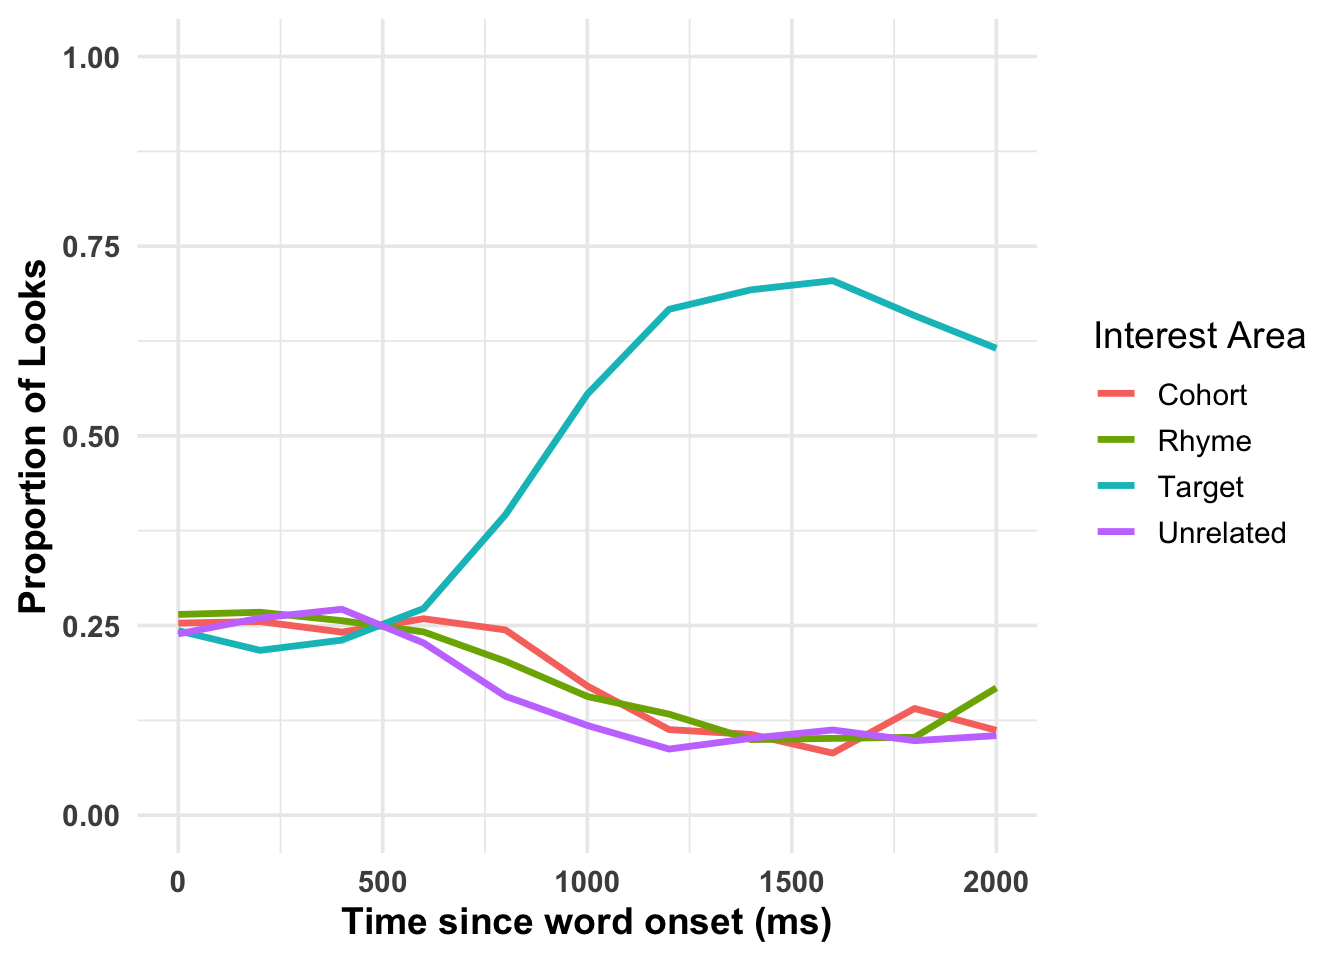
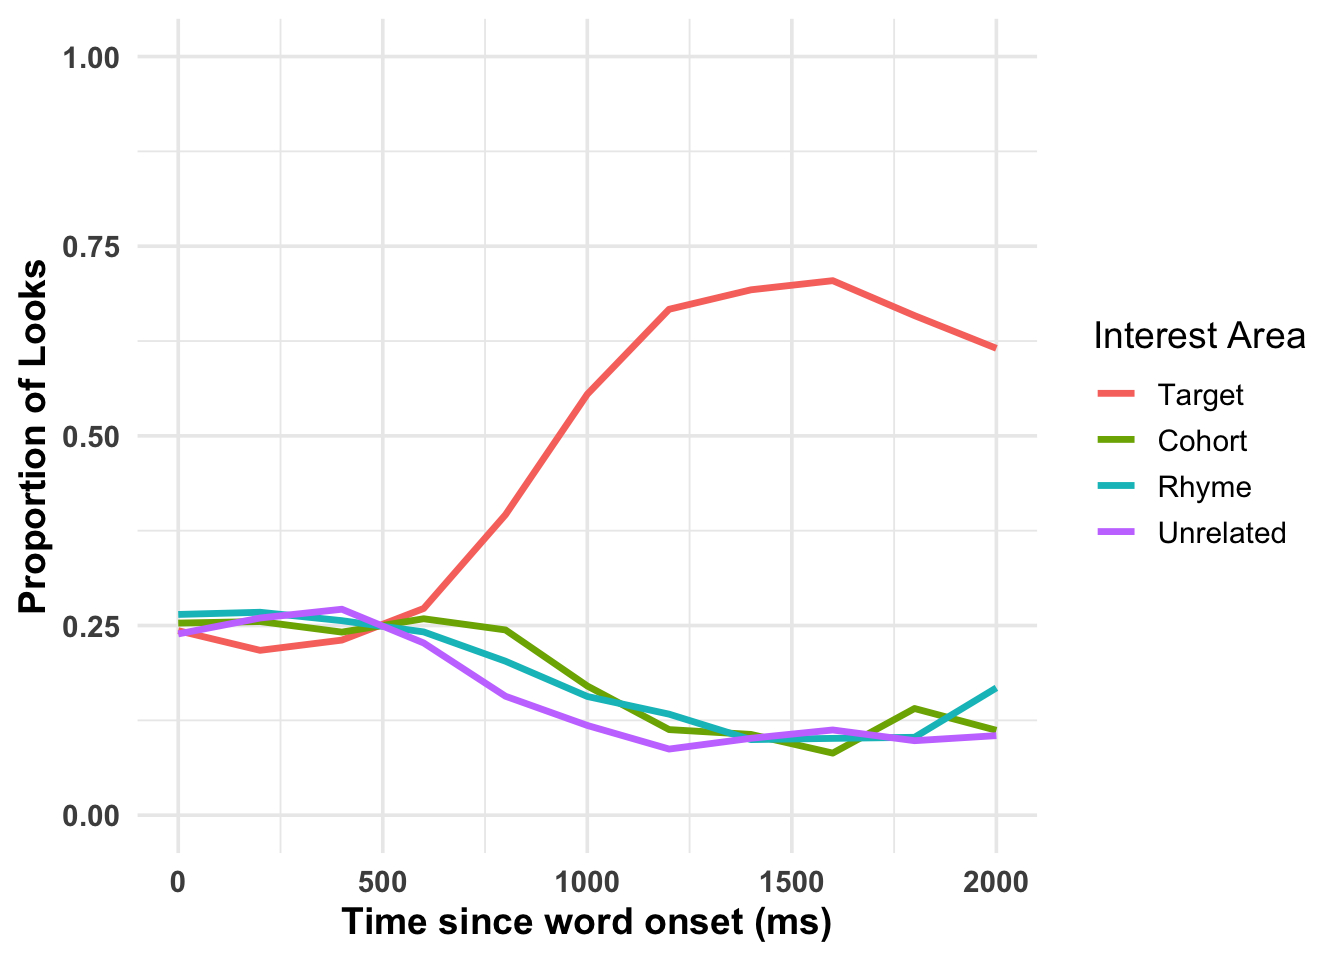
update plot_ia function and vignette

diff --git a/vignettes/webgazeR_vignette.html b/vignettes/webgazeR_vignette.html
@@ -709,9 +709,9 @@ Y: 2.75%</code></pre>
   
     <meta charset="UTF-8">
     <meta name="viewport" content="width=device-width, initial-scale=1.0">
-    <title>tinytable_qz60cjf5bnyffmbx78ja</title>
+    <title>tinytable_7auadykfntucb4zkalmt</title>
     <style>
-.table td.tinytable_css_stocm06g83sb9hd5i0e7, .table th.tinytable_css_stocm06g83sb9hd5i0e7 {    border-bottom: solid 0.1em #d3d8dc; }
+.table td.tinytable_css_1mhgdsx68drma0sx84r5, .table th.tinytable_css_1mhgdsx68drma0sx84r5 {    border-bottom: solid 0.1em #d3d8dc; }
     </style>
     <script src="https://polyfill.io/v3/polyfill.min.js?features=es6"></script>
     <script id="MathJax-script" async="" src="https://cdn.jsdelivr.net/npm/mathjax@3/es5/tex-mml-chtml.js"></script>
@@ -729,7 +729,7 @@ Y: 2.75%</code></pre>
 
   
     <div class="container">
-      <table class="table table-borderless" id="tinytable_qz60cjf5bnyffmbx78ja" style="width: auto; margin-left: auto; margin-right: auto;" data-quarto-disable-processing="true">
+      <table class="table table-borderless" id="tinytable_7auadykfntucb4zkalmt" style="width: auto; margin-left: auto; margin-right: auto;" data-quarto-disable-processing="true">
         <thead>
         
               <tr>
@@ -980,12 +980,12 @@ Y: 2.75%</code></pre>
     </div>
 
     <script>
-      function styleCell_tinytable_vts9lx0yukgcuqbgmbcz(i, j, css_id) {
-        var table = document.getElementById("tinytable_qz60cjf5bnyffmbx78ja");
+      function styleCell_tinytable_rbs5qmfdot06p70fcl9l(i, j, css_id) {
+        var table = document.getElementById("tinytable_7auadykfntucb4zkalmt");
         table.rows[i].cells[j].classList.add(css_id);
       }
       function insertSpanRow(i, colspan, content) {
-        var table = document.getElementById('tinytable_qz60cjf5bnyffmbx78ja');
+        var table = document.getElementById('tinytable_7auadykfntucb4zkalmt');
         var newRow = table.insertRow(i);
         var newCell = newRow.insertCell(0);
         newCell.setAttribute("colspan", colspan);
@@ -993,8 +993,8 @@ Y: 2.75%</code></pre>
         // this may be unsafe, but innerText does not interpret <br>
         newCell.innerHTML = content;
       }
-      function spanCell_tinytable_vts9lx0yukgcuqbgmbcz(i, j, rowspan, colspan) {
-        var table = document.getElementById("tinytable_qz60cjf5bnyffmbx78ja");
+      function spanCell_tinytable_rbs5qmfdot06p70fcl9l(i, j, rowspan, colspan) {
+        var table = document.getElementById("tinytable_7auadykfntucb4zkalmt");
         const targetRow = table.rows[i];
         const targetCell = targetRow.cells[j];
         for (let r = 0; r < rowspan; r++) {
@@ -1021,14 +1021,14 @@ Y: 2.75%</code></pre>
         targetCell.colSpan = colspan;
       }
 
-window.addEventListener('load', function () { styleCell_tinytable_vts9lx0yukgcuqbgmbcz(0, 0, 'tinytable_css_stocm06g83sb9hd5i0e7') })
-window.addEventListener('load', function () { styleCell_tinytable_vts9lx0yukgcuqbgmbcz(0, 1, 'tinytable_css_stocm06g83sb9hd5i0e7') })
-window.addEventListener('load', function () { styleCell_tinytable_vts9lx0yukgcuqbgmbcz(0, 2, 'tinytable_css_stocm06g83sb9hd5i0e7') })
-window.addEventListener('load', function () { styleCell_tinytable_vts9lx0yukgcuqbgmbcz(0, 3, 'tinytable_css_stocm06g83sb9hd5i0e7') })
-window.addEventListener('load', function () { styleCell_tinytable_vts9lx0yukgcuqbgmbcz(0, 4, 'tinytable_css_stocm06g83sb9hd5i0e7') })
-window.addEventListener('load', function () { styleCell_tinytable_vts9lx0yukgcuqbgmbcz(0, 5, 'tinytable_css_stocm06g83sb9hd5i0e7') })
-window.addEventListener('load', function () { styleCell_tinytable_vts9lx0yukgcuqbgmbcz(0, 6, 'tinytable_css_stocm06g83sb9hd5i0e7') })
-window.addEventListener('load', function () { styleCell_tinytable_vts9lx0yukgcuqbgmbcz(0, 7, 'tinytable_css_stocm06g83sb9hd5i0e7') })
+window.addEventListener('load', function () { styleCell_tinytable_rbs5qmfdot06p70fcl9l(0, 0, 'tinytable_css_1mhgdsx68drma0sx84r5') })
+window.addEventListener('load', function () { styleCell_tinytable_rbs5qmfdot06p70fcl9l(0, 1, 'tinytable_css_1mhgdsx68drma0sx84r5') })
+window.addEventListener('load', function () { styleCell_tinytable_rbs5qmfdot06p70fcl9l(0, 2, 'tinytable_css_1mhgdsx68drma0sx84r5') })
+window.addEventListener('load', function () { styleCell_tinytable_rbs5qmfdot06p70fcl9l(0, 3, 'tinytable_css_1mhgdsx68drma0sx84r5') })
+window.addEventListener('load', function () { styleCell_tinytable_rbs5qmfdot06p70fcl9l(0, 4, 'tinytable_css_1mhgdsx68drma0sx84r5') })
+window.addEventListener('load', function () { styleCell_tinytable_rbs5qmfdot06p70fcl9l(0, 5, 'tinytable_css_1mhgdsx68drma0sx84r5') })
+window.addEventListener('load', function () { styleCell_tinytable_rbs5qmfdot06p70fcl9l(0, 6, 'tinytable_css_1mhgdsx68drma0sx84r5') })
+window.addEventListener('load', function () { styleCell_tinytable_rbs5qmfdot06p70fcl9l(0, 7, 'tinytable_css_1mhgdsx68drma0sx84r5') })
     </script>
 
   
@@ -2796,14 +2796,11 @@ Non-looks
 <h3 class="anchored" data-anchor-id="plotting">Plotting</h3>
 <p>To simplify plotting your time-course data, we have created the <code>plot_IA_proportions</code> function. This function takes several arguments. The ia_column argument specifies the column containing your Interest Area (IA) labels. The <code>time_column</code> argument requires the name of your time bin column, and the <code>proportion_column</code> argument specifies the column containing fixation or look proportions. Additional arguments allow you to specify custom names for each IA in the ia_column, enabling you to label them as desired.</p>
 <div class="cell">
-<div class="sourceCode cell-code" id="cb32"><pre class="sourceCode r code-with-copy"><code class="sourceCode r"><span id="cb32-1"><a href="#cb32-1" aria-hidden="true" tabindex="-1"></a>webgazeR<span class="sc">::</span><span class="fu">plot_IA_proportions</span>(gaze_sub, </span>
+<div class="sourceCode cell-code" id="cb32"><pre class="sourceCode r code-with-copy"><code class="sourceCode r"><span id="cb32-1"><a href="#cb32-1" aria-hidden="true" tabindex="-1"></a><span class="fu">plot_IA_proportions</span>(gaze_sub, </span>
 <span id="cb32-2"><a href="#cb32-2" aria-hidden="true" tabindex="-1"></a>                     <span class="at">ia_column =</span> <span class="st">"condition"</span>, </span>
 <span id="cb32-3"><a href="#cb32-3" aria-hidden="true" tabindex="-1"></a>                     <span class="at">time_column =</span> <span class="st">"timebins"</span>, </span>
 <span id="cb32-4"><a href="#cb32-4" aria-hidden="true" tabindex="-1"></a>                     <span class="at">proportion_column =</span> <span class="st">"Fix"</span>, </span>
-<span id="cb32-5"><a href="#cb32-5" aria-hidden="true" tabindex="-1"></a>                     <span class="at">target =</span> <span class="st">"Target"</span>, </span>
-<span id="cb32-6"><a href="#cb32-6" aria-hidden="true" tabindex="-1"></a>                     <span class="at">cohort =</span> <span class="st">"Cohort"</span>, </span>
-<span id="cb32-7"><a href="#cb32-7" aria-hidden="true" tabindex="-1"></a>                     <span class="at">rhyme =</span> <span class="st">"Rhyme"</span>, </span>
-<span id="cb32-8"><a href="#cb32-8" aria-hidden="true" tabindex="-1"></a>                   <span class="at">unrelated =</span> <span class="st">"Unrelated"</span>)</span></code><button title="Copy to Clipboard" class="code-copy-button"><i class="bi"></i></button></pre></div>
+<span id="cb32-5"><a href="#cb32-5" aria-hidden="true" tabindex="-1"></a>                   <span class="at">ia_mapping =</span> <span class="fu">list</span>(<span class="at">target =</span> <span class="st">"Target"</span>, <span class="at">cohort =</span> <span class="st">"Cohort"</span>, <span class="at">rhyme =</span> <span class="st">"Rhyme"</span>, <span class="at">unrelated =</span> <span class="st">"Unrelated"</span>))</span></code><button title="Copy to Clipboard" class="code-copy-button"><i class="bi"></i></button></pre></div>
 <div class="cell-output-display">
 <div>
 <figure class="figure">
@@ -2994,10 +2991,7 @@ Non-looks
 <span id="cb42-2"><a href="#cb42-2" aria-hidden="true" tabindex="-1"></a>                     <span class="at">ia_column =</span> <span class="st">"condition"</span>, </span>
 <span id="cb42-3"><a href="#cb42-3" aria-hidden="true" tabindex="-1"></a>                     <span class="at">time_column =</span> <span class="st">"timebins"</span>, </span>
 <span id="cb42-4"><a href="#cb42-4" aria-hidden="true" tabindex="-1"></a>                     <span class="at">proportion_column =</span> <span class="st">"Fix"</span>, </span>
-<span id="cb42-5"><a href="#cb42-5" aria-hidden="true" tabindex="-1"></a>                     <span class="at">target =</span> <span class="st">"Target"</span>, </span>
-<span id="cb42-6"><a href="#cb42-6" aria-hidden="true" tabindex="-1"></a>                     <span class="at">cohort =</span> <span class="st">"Cohort"</span>, </span>
-<span id="cb42-7"><a href="#cb42-7" aria-hidden="true" tabindex="-1"></a>                     <span class="at">rhyme =</span> <span class="st">"Rhyme"</span>, </span>
-<span id="cb42-8"><a href="#cb42-8" aria-hidden="true" tabindex="-1"></a>                   <span class="at">unrelated =</span> <span class="st">"Unrelated"</span>)</span></code><button title="Copy to Clipboard" class="code-copy-button"><i class="bi"></i></button></pre></div>
+<span id="cb42-5"><a href="#cb42-5" aria-hidden="true" tabindex="-1"></a>                   <span class="at">ia_mapping =</span> <span class="fu">list</span>(<span class="at">target =</span> <span class="st">"Target"</span>, <span class="at">cohort =</span> <span class="st">"Cohort"</span>, <span class="at">rhyme =</span> <span class="st">"Rhyme"</span>, <span class="at">unrelated =</span> <span class="st">"Unrelated"</span>))</span></code><button title="Copy to Clipboard" class="code-copy-button"><i class="bi"></i></button></pre></div>
 <div class="cell-output-display">
 <div>
 <figure class="figure">
